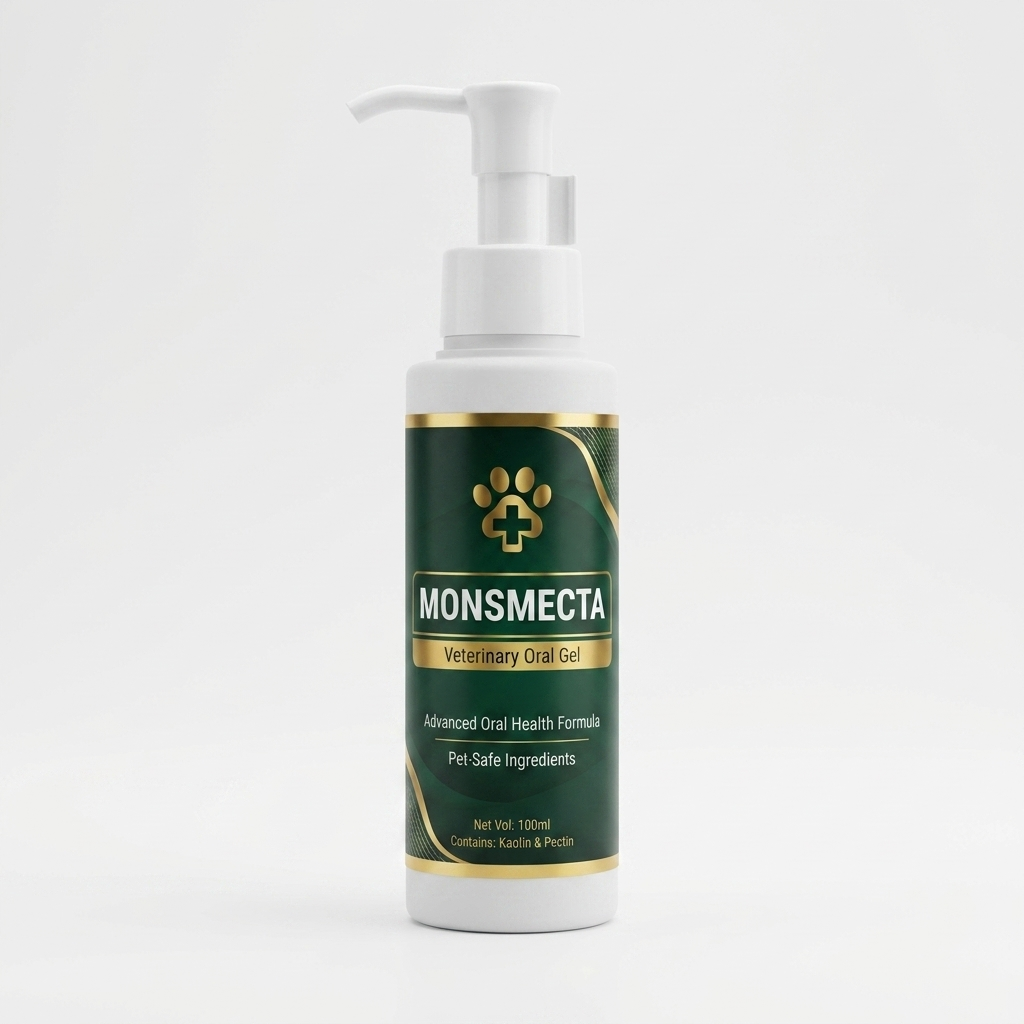
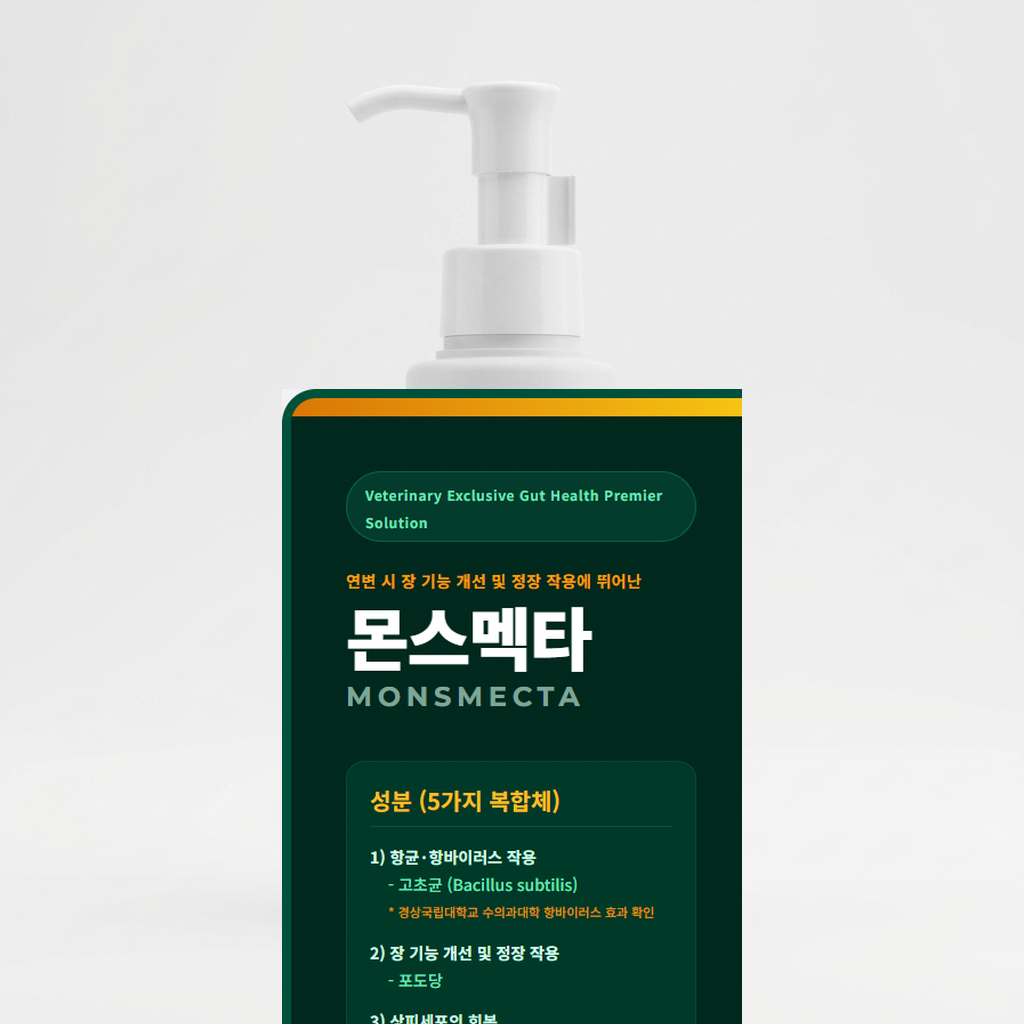
Fix: correct 3D bottle mockup to use exact screenshot of real label and fix print splitting

Changed region(s): [[0.25, 0.375, 0.75, 1.0]]

diff --git a/public/assets/monsmecta_label_print.html b/public/assets/monsmecta_label_print.html
@@ -19,14 +19,19 @@
                 padding: 0;
                 display: flex;
                 justify-content: center;
-                align-items: flex-start;
+                align-items: center;
+                height: 100vh;
+                overflow: hidden;
             }
             .no-print { display: none !important; }
             
             #label-container {
-                transform: scale(0.9);
-                transform-origin: top center;
-                margin-top: 5mm;
+                width: 270mm !important;
+                height: auto !important;
+                max-height: 190mm !important;
+                transform: scale(0.7);
+                transform-origin: center center;
+                margin: 0;
                 border: none !important;
                 box-shadow: none !important;
             }